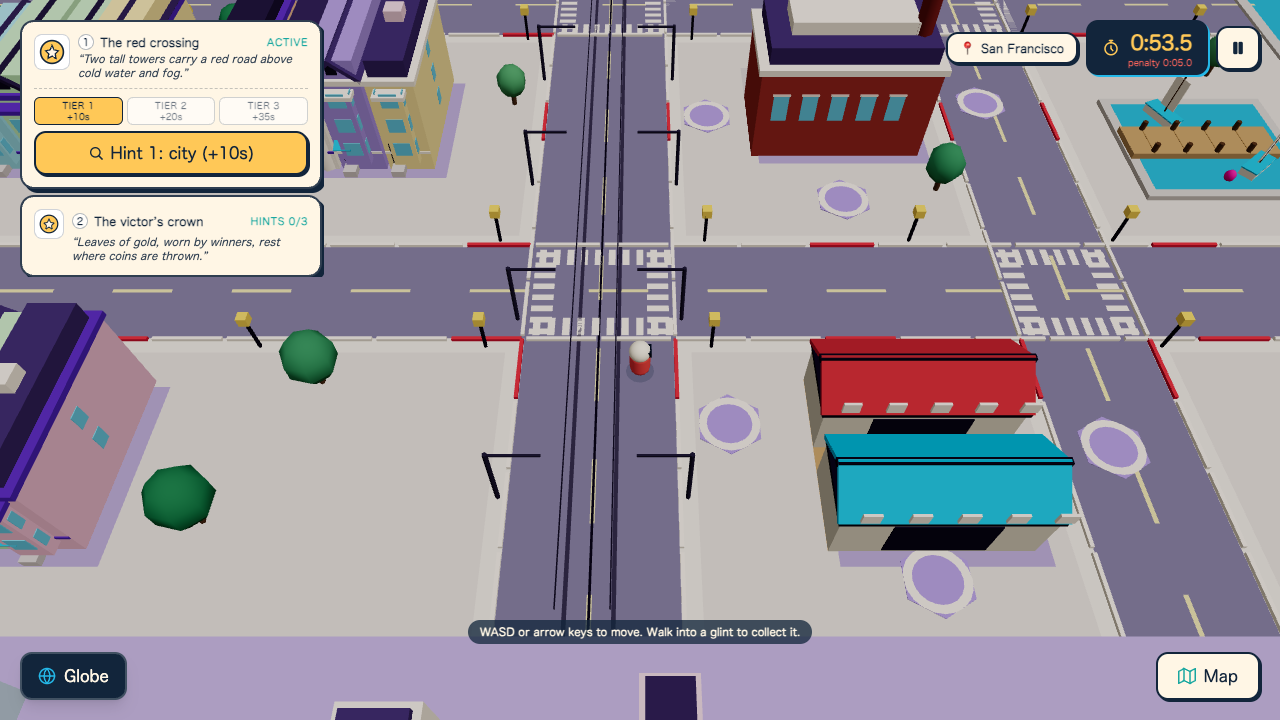
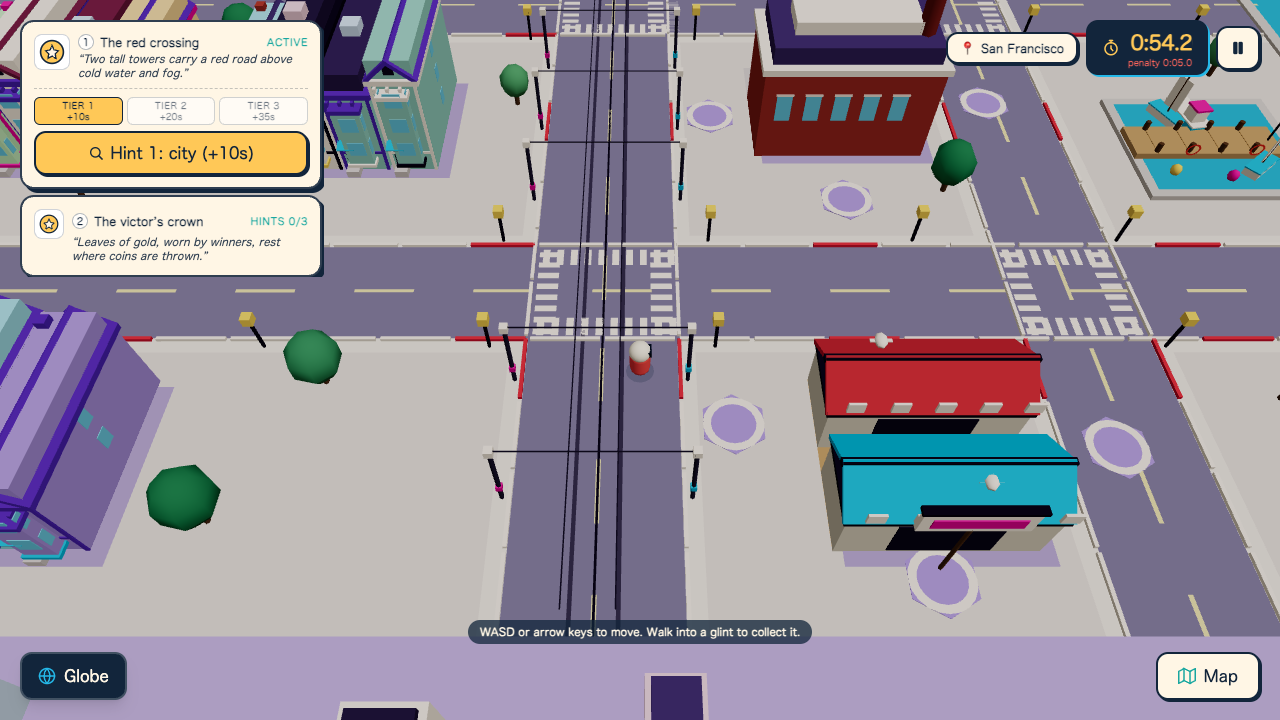
A9: SF pass 3 — translucent haze, full trolley line, facade/wharf detail, ripple layer

diff --git a/src/cities/san-francisco/SanFranciscoScene.tsx b/src/cities/san-francisco/SanFranciscoScene.tsx
@@ -19,6 +19,7 @@ import {
   CylinderGeometry,
   Group,
   InstancedMesh,
+  MeshBasicMaterial,
   MeshLambertMaterial,
   Object3D,
   PlaneGeometry,
@@ -42,6 +43,7 @@ const UNIT_SPHERE = new SphereGeometry(1, 7, 5);
 const UNIT_PLANE = new PlaneGeometry(1, 1);
 const SOCKET_RING = new RingGeometry(1.7, 2.3, 20);
 const WHITE = new MeshLambertMaterial({ color: '#ffffff' });
+const HAZE_MATERIAL = new MeshBasicMaterial({ color: '#ffffff', transparent: true, opacity: 0.42, depthWrite: false });
 
 // Arcade palette
 const INK = '#211333';
@@ -74,9 +76,9 @@ const CABLE_TONE = '#3a2648';
 const CONCRETE_TONE = '#d8d0cc';
 const DECK_TONE = '#6d6382';
 
-const PASTELS = ['#f8c8dc', '#b6a1e8', '#a8e4f0', '#ffe7a8', '#c9f0c2', '#fff5e9', '#ffc9a3'] as const;
-const TRIMS = ['#ffffff', '#fff5e9', '#7146c5', '#211333'] as const;
-const ROOF_TONES = ['#4c3a6b', '#5a4680', '#3d2f57'] as const;
+const PASTELS = ['#f8c8dc', '#b6a1e8', '#a8e4f0', '#ffe7a8', '#c9f0c2', '#fff5e9', '#ffc9a3', '#f7a8c9', '#9fd6c8', '#e5c8ff', '#fdd9a0', '#bfe0ff'] as const;
+const TRIMS = ['#ffffff', '#fff5e9', '#7146c5', '#211333', HOT_PINK, CYAN, YELLOW] as const;
+const ROOF_TONES = ['#4c3a6b', '#5a4680', '#3d2f57', '#7146c5', '#8b3a5c', '#2f6f7a'] as const;
 const WINDOW_TONE = '#2a2340';
 const GLASS_TONE = '#7fd5ee';
 const STEP_TONE = '#d9d0cf';
@@ -130,7 +132,15 @@ interface InstanceItem {
 const scratchObject = new Object3D();
 const scratchColor = new Color();
 
-function Instances({ geometry, items }: { readonly geometry: BufferGeometry; readonly items: readonly InstanceItem[] }) {
+function Instances({
+  geometry,
+  items,
+  material = WHITE,
+}: {
+  readonly geometry: BufferGeometry;
+  readonly items: readonly InstanceItem[];
+  readonly material?: MeshLambertMaterial | MeshBasicMaterial;
+}) {
   const ref = useRef<InstancedMesh>(null);
 
   useLayoutEffect(() => {
@@ -151,7 +161,7 @@ function Instances({ geometry, items }: { readonly geometry: BufferGeometry; rea
   }, [items]);
 
   if (items.length === 0) return null;
-  return <instancedMesh key={items.length} ref={ref} args={[geometry, WHITE, items.length]} frustumCulled={false} />;
+  return <instancedMesh key={items.length} ref={ref} args={[geometry, material, items.length]} frustumCulled={false} />;
 }
 
 // ---------------------------------------------------------------------------
@@ -225,6 +235,7 @@ interface Batches {
   readonly spheres: InstanceItem[];
   readonly flats: InstanceItem[];
   readonly rings: InstanceItem[];
+  readonly haze: InstanceItem[];
 }
 
 function isClearForProps(definition: CityDefinition, x: number, z: number, keepOffRoads: boolean): boolean {
@@ -314,13 +325,27 @@ function buildStreets(definition: CityDefinition, quality: Quality, batches: Bat
   batches.flats.push({ x: centerX(mainStreet), y: 0.035, z: centerZ(mainStreet), sx: 0.18, sy: depth(mainStreet), sz: 1, rx: FLAT, color: INK });
   if (quality === 'low') return;
   const wireY = 6.2;
-  for (const side of [-1, 1] as const) {
-    const x = centerX(mainStreet) + side * (width(mainStreet) / 2 + 0.7);
-    for (let z = mainStreet.minZ + 6; z < mainStreet.maxZ; z += 16) {
-      if (!isClearForProps(definition, x, z, false)) continue;
+  const poleX = width(mainStreet) / 2 + 0.7;
+  for (let z = mainStreet.minZ + 4; z < mainStreet.maxZ; z += 10) {
+    const clear = [-1, 1].every((side) => {
+      const x = centerX(mainStreet) + side * poleX;
+      if (definition.blockers.some((b) => contains(grow(b, 1), x, z))) return false;
+      return !roads.some((road) => road !== mainStreet && contains(grow(road, 1.5), x, z));
+    });
+    if (!clear) continue;
+    for (const side of [-1, 1] as const) {
+      const x = centerX(mainStreet) + side * poleX;
       batches.cylinders.push({ x, y: wireY / 2, z, sx: 0.35, sy: wireY, sz: 0.35, color: POLE_TONE });
-      batches.boxes.push({ x: x - side * 1.8, y: wireY - 0.15, z, sx: 3.6, sy: 0.16, sz: 0.16, color: POLE_TONE });
+      batches.boxes.push({ x, y: wireY + 0.3, z, sx: 0.6, sy: 0.6, sz: 0.6, color: CREAM });
+      batches.boxes.push({ x, y: 1.6, z, sx: 0.45, sy: 0.5, sz: 0.45, color: side < 0 ? HOT_PINK : CYAN });
     }
+    // Span wire between the pair, with short hangers dropping to the two running wires.
+    batches.boxes.push({ x: centerX(mainStreet), y: wireY + 0.4, z, sx: poleX * 2, sy: 0.07, sz: 0.07, color: WIRE_TONE });
+    for (const side of [-1, 1] as const) {
+      batches.boxes.push({ x: centerX(mainStreet) + side * 1.6, y: wireY + 0.2, z, sx: 0.06, sy: 0.4, sz: 0.06, color: WIRE_TONE });
+    }
+  }
+  for (const side of [-1, 1] as const) {
     batches.boxes.push({ x: centerX(mainStreet) + side * 1.6, y: wireY, z: centerZ(mainStreet), sx: 0.08, sy: 0.08, sz: depth(mainStreet), color: WIRE_TONE });
   }
 }
@@ -399,17 +424,27 @@ function buildBackground(definition: CityDefinition, rng: Rng, quality: Quality,
     batches.boxes.push({ x: bounds.minX - 22, y: 4, z, sx: 44, sy: 8.5, sz: 3, color: DECK_TONE });
   }
 
-  // Restrained local haze: opaque bands stepping from lavender toward the sky colour, so the bay,
-  // the strait and the far bridge anchorage fade out without touching the scene's fog settings.
+  // Layered local haze (translucent, depthWrite off): far bands at the map edges, plus fog banks
+  // rolling through the strait under and around the bridge so the towers punch out of it. No fog
+  // setting is touched; this is just a handful of instanced translucent slabs.
+  const straitZ = (STRAIT_MIN_Z + STRAIT_MAX_Z) / 2;
   HAZE_BANDS.forEach((tone, index) => {
-    const y = 3 + index * 4;
-    batches.boxes.push({ x: 0, y, z: -FAR + 20 + index * 6, sx: FAR * 2.2, sy: 8, sz: 1, color: tone });
-    batches.boxes.push({ x: FAR - 20 - index * 6, y, z: 0, sx: 1, sy: 8, sz: FAR * 2.2, color: tone });
-    batches.boxes.push({ x: -FAR + 25 + index * 6, y, z: centerZ({ minX: 0, maxX: 0, minZ: STRAIT_MIN_Z, maxZ: STRAIT_MAX_Z }), sx: 1, sy: 8, sz: 70, color: tone });
+    const y = 4 + index * 5;
+    batches.haze.push({ x: 0, y, z: -FAR + 30 + index * 10, sx: FAR * 2.2, sy: 10, sz: 1, color: tone });
+    batches.haze.push({ x: FAR - 30 - index * 10, y, z: 0, sx: 1, sy: 10, sz: FAR * 2.2, color: tone });
+    batches.haze.push({ x: -FAR + 40 + index * 12, y, z: straitZ, sx: 1, sy: 10, sz: 90, color: tone });
   });
-  // Low water mist drifting through the strait under the bridge deck.
-  for (let x = bounds.minX - 6; x > -FAR + 40; x -= 22) {
-    batches.boxes.push({ x, y: 1.2, z: STRAIT_MIN_Z + 6 + ((x * 7) % 20 + 20) % 20, sx: 16, sy: 1.6, sz: 5, color: HAZE_TONE });
+  const bankCount = quality === 'low' ? 4 : 9;
+  for (let index = 0; index < bankCount; index += 1) {
+    const t = index / bankCount;
+    const x = bounds.minX - 8 - t * 120;
+    const drift = ((index * 37) % 23) - 11;
+    batches.haze.push({ x, y: 1.6 + (index % 3) * 1.1, z: straitZ + drift, sx: 26 + (index % 4) * 6, sy: 2.6 + (index % 2) * 1.4, sz: 12 + (index % 3) * 4, color: index % 2 ? HAZE_TONE : CREAM });
+  }
+  if (quality !== 'low') {
+    for (const x of [-96, -112, -126]) {
+      batches.haze.push({ x, y: 12, z: straitZ, sx: 14, sy: 9, sz: 40, color: HAZE_BANDS[2] });
+    }
   }
 }
 
@@ -588,8 +623,19 @@ function buildVictorianRow(block: Blocker, rng: Rng, quality: Quality, batches: 
       if (index === 0) batches.boxes.push({ x: body.minX - 0.04, y: y + 0.8, z: centerZ(body), sx: 0.08, sy: 1.4, sz: 1.0, color: GLASS_TONE });
       if (index === count - 1) batches.boxes.push({ x: body.maxX + 0.04, y: y + 0.8, z: centerZ(body), sx: 0.08, sy: 1.4, sz: 1.0, color: GLASS_TONE });
     }
-    // Trim band between storeys.
+    // Trim band between storeys, corner pilasters, cornice brackets and a chimney.
     batches.boxes.push({ x: centerX(body), y: 2.0, z: body.maxZ + 0.04, sx: width(body), sy: 0.25, sz: 0.1, color: trim });
+    for (const cx of [body.minX + 0.15, body.maxX - 0.15]) {
+      batches.boxes.push({ x: cx, y: height / 2, z: body.maxZ + 0.06, sx: 0.3, sy: height, sz: 0.12, color: trim });
+    }
+    for (let bx = body.minX + 0.6; bx < body.maxX - 0.3; bx += 1.1) {
+      batches.boxes.push({ x: bx, y: height - 0.3, z: body.maxZ + 0.3, sx: 0.25, sy: 0.5, sz: 0.5, color: trim });
+    }
+    if (rng.next() < 0.6) {
+      batches.boxes.push({ x: body.minX + 0.9, y: height + 1.6, z: body.minZ + 1.2, sx: 0.8, sy: 2.4, sz: 0.8, color: rng.next() < 0.5 ? BRICK_TONE : trim });
+    }
+    // Second-colour band on the bay window sill for the "painted lady" look.
+    batches.boxes.push({ x: bayX, y: 1.35, z: body.maxZ + 0.6, sx: bayWidth + 0.3, sy: 0.3, sz: 1.2, color: rng.pick(TRIMS) });
   }
 }
 
@@ -678,8 +724,24 @@ function buildWharfSheds(block: Blocker, quality: Quality, batches: Batches): vo
       batches.boxes.push({ x, y: height + 0.4 + rise * 0.55, z: shed.maxZ + 0.4, sx: 1.2, sy: 1.0, sz: 0.2, color: CREAM });
     }
   });
-  // Crab pots and barrels in the alley between the sheds.
+  // Pier sign on the street face, bollards along the plank edge, crate stacks, a couple of gulls.
+  batches.cylinders.push({ x: centerX(block), y: 3.6, z: block.maxZ + 1.2, sx: 0.3, sy: 7.2, sz: 0.3, color: POST_TONE });
+  batches.boxes.push({ x: centerX(block), y: 7.6, z: block.maxZ + 1.2, sx: 7, sy: 2.2, sz: 0.4, color: CREAM });
+  batches.boxes.push({ x: centerX(block), y: 7.6, z: block.maxZ + 1.45, sx: 5.6, sy: 1.0, sz: 0.1, color: HOT_PINK });
+  batches.boxes.push({ x: centerX(block), y: 8.9, z: block.maxZ + 1.2, sx: 7.4, sy: 0.3, sz: 0.6, color: INK });
   if (quality === 'low') return;
+  for (let x = block.minX + 1; x <= block.maxX - 1; x += 3) {
+    batches.cylinders.push({ x, y: 0.45, z: block.maxZ - 0.5, sx: 0.5, sy: 0.9, sz: 0.5, color: INK });
+    batches.cylinders.push({ x, y: 0.45, z: block.minZ + 0.5, sx: 0.5, sy: 0.9, sz: 0.5, color: INK });
+  }
+  for (const [cx, cz, h] of [[block.minX + 1.2, centerZ(block) + 1.6, 1.4], [block.minX + 2.6, centerZ(block) + 1.6, 0.9], [block.maxX - 1.5, centerZ(block) - 1.6, 1.2]] as const) {
+    batches.boxes.push({ x: cx, y: h / 2, z: cz, sx: 1.2, sy: h, sz: 1.2, color: PLANK_TONE });
+  }
+  for (const [gx, gz] of [[block.minX + 4, block.minZ + 1], [block.maxX - 5, block.maxZ - 2]] as const) {
+    batches.spheres.push({ x: gx, y: 6.4, z: gz, sx: 0.5, sy: 0.4, sz: 0.7, color: CREAM });
+    batches.boxes.push({ x: gx, y: 6.4, z: gz, sx: 1.6, sy: 0.08, sz: 0.3, color: CREAM });
+  }
+  // Crab pots and barrels in the alley between the sheds.
   for (let x = block.minX + 2; x < block.maxX - 1; x += 3.5) {
     batches.cylinders.push({ x, y: 0.6, z: centerZ(block), sx: 1.1, sy: 1.2, sz: 1.1, color: x % 7 < 3.5 ? POST_TONE : YELLOW });
   }
@@ -732,6 +794,21 @@ function buildBayPier(block: Blocker, quality: Quality, batches: Batches): void 
     if (quality !== 'low') batches.boxes.push({ x: bx, y: 3.4, z: bz, sx: 0.08, sy: 3.2, sz: 1.6, ry, color: CREAM });
   }
   batches.spheres.push({ x: centerX(block), y: 0.9, z: block.maxZ - 2.2, sx: 0.5, sy: 0.6, sz: 0.5, color: BUOY_TONE });
+  batches.spheres.push({ x: block.minX + 3, y: 0.9, z: block.maxZ - 3, sx: 0.5, sy: 0.6, sz: 0.5, color: YELLOW });
+  // Fishing boat with a wheelhouse, lifebuoy rings on the pier posts, a lamp at the pier head.
+  const fx = block.maxX - 9;
+  const fz = block.minZ + 3.2;
+  batches.boxes.push({ x: fx, y: 0.95, z: fz, sx: 2.0, sy: 0.9, sz: 4.6, ry: 0.15, color: CYAN });
+  batches.boxes.push({ x: fx, y: 1.42, z: fz, sx: 2.1, sy: 0.14, sz: 4.8, ry: 0.15, color: CREAM });
+  batches.boxes.push({ x: fx, y: 2.1, z: fz + 1.0, sx: 1.4, sy: 1.2, sz: 1.4, ry: 0.15, color: CREAM });
+  batches.boxes.push({ x: fx, y: 2.8, z: fz + 1.0, sx: 1.6, sy: 0.2, sz: 1.6, ry: 0.15, color: HOT_PINK });
+  if (quality !== 'low') {
+    for (const x of [pier.minX + 5, pier.minX + 11]) {
+      batches.rings.push({ x, y: 1.6, z: pier.maxZ + 0.05, sx: 0.28, sy: 0.28, sz: 0.28, rx: 0, color: ORANGE });
+    }
+    batches.cylinders.push({ x: pier.maxX - 0.8, y: 2.3, z: centerZ(pier), sx: 0.2, sy: 3.4, sz: 0.2, color: LAMP_POST_TONE });
+    batches.spheres.push({ x: pier.maxX - 0.8, y: 4.2, z: centerZ(pier), sx: 0.5, sy: 0.5, sz: 0.5, color: LAMP_GLOW_TONE });
+  }
 }
 
 // ---------------------------------------------------------------------------
@@ -786,19 +863,50 @@ const FOAM_BARS: readonly InstanceItem[] = [
   { x: -84, y: -0.2, z: -32, sx: 10, sy: 0.5, sz: 1, rx: FLAT, color: FOAM_TONE },
 ];
 
+const RIPPLE_BARS: readonly InstanceItem[] = Array.from({ length: 28 }, (_, index) => {
+  const row = Math.floor(index / 7);
+  const col = index % 7;
+  const inStrait = row >= 2;
+  return {
+    x: inStrait ? -80 - col * 12 - (row % 2) * 6 : -110 + col * 38 + (row % 2) * 12,
+    y: -0.22,
+    z: inStrait ? -58 + (row - 2) * 16 + (col % 3) * 4 : -90 - row * 30 - (col % 2) * 9,
+    sx: 6 + (col % 3) * 3,
+    sy: 0.35,
+    sz: 1,
+    rx: FLAT,
+    color: col % 2 ? WATER_DEEP_TONE : FOAM_TONE,
+  };
+});
+
+// Two instanced layers drift on different phases; the only per-frame work is two group transforms.
 function BayShimmer() {
-  const ref = useRef<Group>(null);
+  const foam = useRef<Group>(null);
+  const ripple = useRef<Group>(null);
   useFrame(({ clock }) => {
-    const group = ref.current;
-    if (!group) return;
     const t = clock.getElapsedTime();
-    group.position.x = Math.sin(t * 0.35) * 2.5;
-    group.position.z = Math.cos(t * 0.27) * 1.5;
+    const foamGroup = foam.current;
+    if (foamGroup) {
+      foamGroup.position.x = Math.sin(t * 0.35) * 2.5;
+      foamGroup.position.z = Math.cos(t * 0.27) * 1.5;
+      foamGroup.scale.x = 1 + Math.sin(t * 0.8) * 0.06;
+    }
+    const rippleGroup = ripple.current;
+    if (rippleGroup) {
+      rippleGroup.position.x = Math.cos(t * 0.5 + 1.3) * 1.8;
+      rippleGroup.position.z = Math.sin(t * 0.41) * 2.2;
+      rippleGroup.position.y = Math.sin(t * 1.1) * 0.03;
+    }
   });
   return (
-    <group ref={ref}>
-      <Instances geometry={UNIT_PLANE} items={FOAM_BARS} />
-    </group>
+    <>
+      <group ref={foam}>
+        <Instances geometry={UNIT_PLANE} items={FOAM_BARS} />
+      </group>
+      <group ref={ripple}>
+        <Instances geometry={UNIT_PLANE} items={RIPPLE_BARS} />
+      </group>
+    </>
   );
 }
 
@@ -811,7 +919,7 @@ export function SanFranciscoScene({ definition, seed, quality }: CitySceneProps)
 
   const layout = useMemo(() => {
     const rng = createRng(hashSeed('san-francisco-cosmetic', seed));
-    const batches: Batches = { boxes: [], cylinders: [], spheres: [], flats: [], rings: [] };
+    const batches: Batches = { boxes: [], cylinders: [], spheres: [], flats: [], rings: [], haze: [] };
 
     buildBackground(definition, rng, quality, batches);
     buildStreets(definition, quality, batches);
@@ -844,6 +952,7 @@ export function SanFranciscoScene({ definition, seed, quality }: CitySceneProps)
       <Instances geometry={UNIT_CYLINDER} items={layout.cylinders} />
       <Instances geometry={UNIT_SPHERE} items={layout.spheres} />
       <Instances geometry={SOCKET_RING} items={layout.rings} />
+      <Instances geometry={UNIT_BOX} items={layout.haze} material={HAZE_MATERIAL} />
       <BayShimmer />
     </group>
   );

diff --git a/docs/status/A9.md b/docs/status/A9.md
@@ -35,3 +35,14 @@ Owner paths: `src/cities/san-francisco/`, `docs/status/A9.md`, `docs/status/a9-s
   none sit inside a blocker. definition.ts unchanged.
 - Known issues: deck passes ~5 units above the walkable strip x -72..-56 (no collision, purely visual);
   haze is opaque geometry, so it hard-edges against the sky at extreme camera positions.
+
+## Polish pass 3
+
+- Translucent instanced haze layer (`HAZE_MATERIAL`, MeshBasicMaterial opacity 0.42, depthWrite off):
+  far edge bands plus fog banks rolling through the strait under the deck and behind the west tower.
+- Trolley poles every 10 units along the whole cable street (skipping intersections/blockers) with
+  span wires, hangers, cream insulators and pink/cyan pole bands.
+- Victorians: 12 pastels, 7 trims, 6 roof tones, corner pilasters, cornice brackets, chimneys, sill bands.
+- Wharf: pier sign, bollards, crate stacks, gulls. Pier: fishing boat, lifebuoy rings, head lamp, 2nd buoy.
+- Water: second `RIPPLE_BARS` instanced layer drifting on its own phase; still two group transforms per frame.
+- Sockets re-checked by grid BFS (all nine reachable); definition.ts unchanged.
